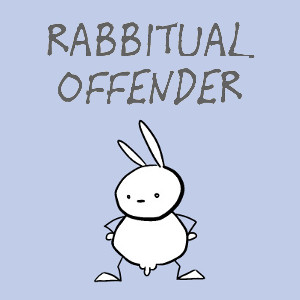
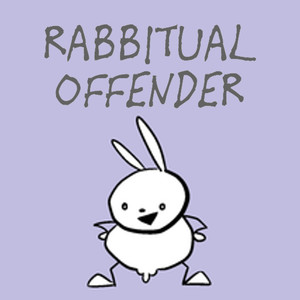
Update cover of Rabbitual Offender comic
http://static.tumblr.com/0f3059bbe6d6a6d4622c8f2d36cc6593/wxadiuz/OMrnep9cl/tumblr_static_6mt4tvr4rrswcg840cc884cww.jpg
http://38.media.tumblr.com/avatar_c8122d9d9934_128.png

Changed region(s): [[0.15, 0.06, 0.87, 0.96]]

diff --git a/src/Comics/RabbitualOffender.cpp b/src/Comics/RabbitualOffender.cpp
@@ -16,7 +16,7 @@ RabbitualOffender::RabbitualOffender(QObject *parent) :
 {
     m_info.id             = QString("rabbitualoffender");
     m_info.name           = QString("Rabbitual Offender");
-    m_info.color          = QColor(193, 204, 232);
+    m_info.color          = QColor(193, 189, 224);
     m_info.authors        = QStringList() << "Edward Gee" << "Wade Crodhil";
     m_info.homepage       = QUrl("http://rabbitualoffender.tumblr.com/");
     m_info.country        = QLocale::UnitedStates;
